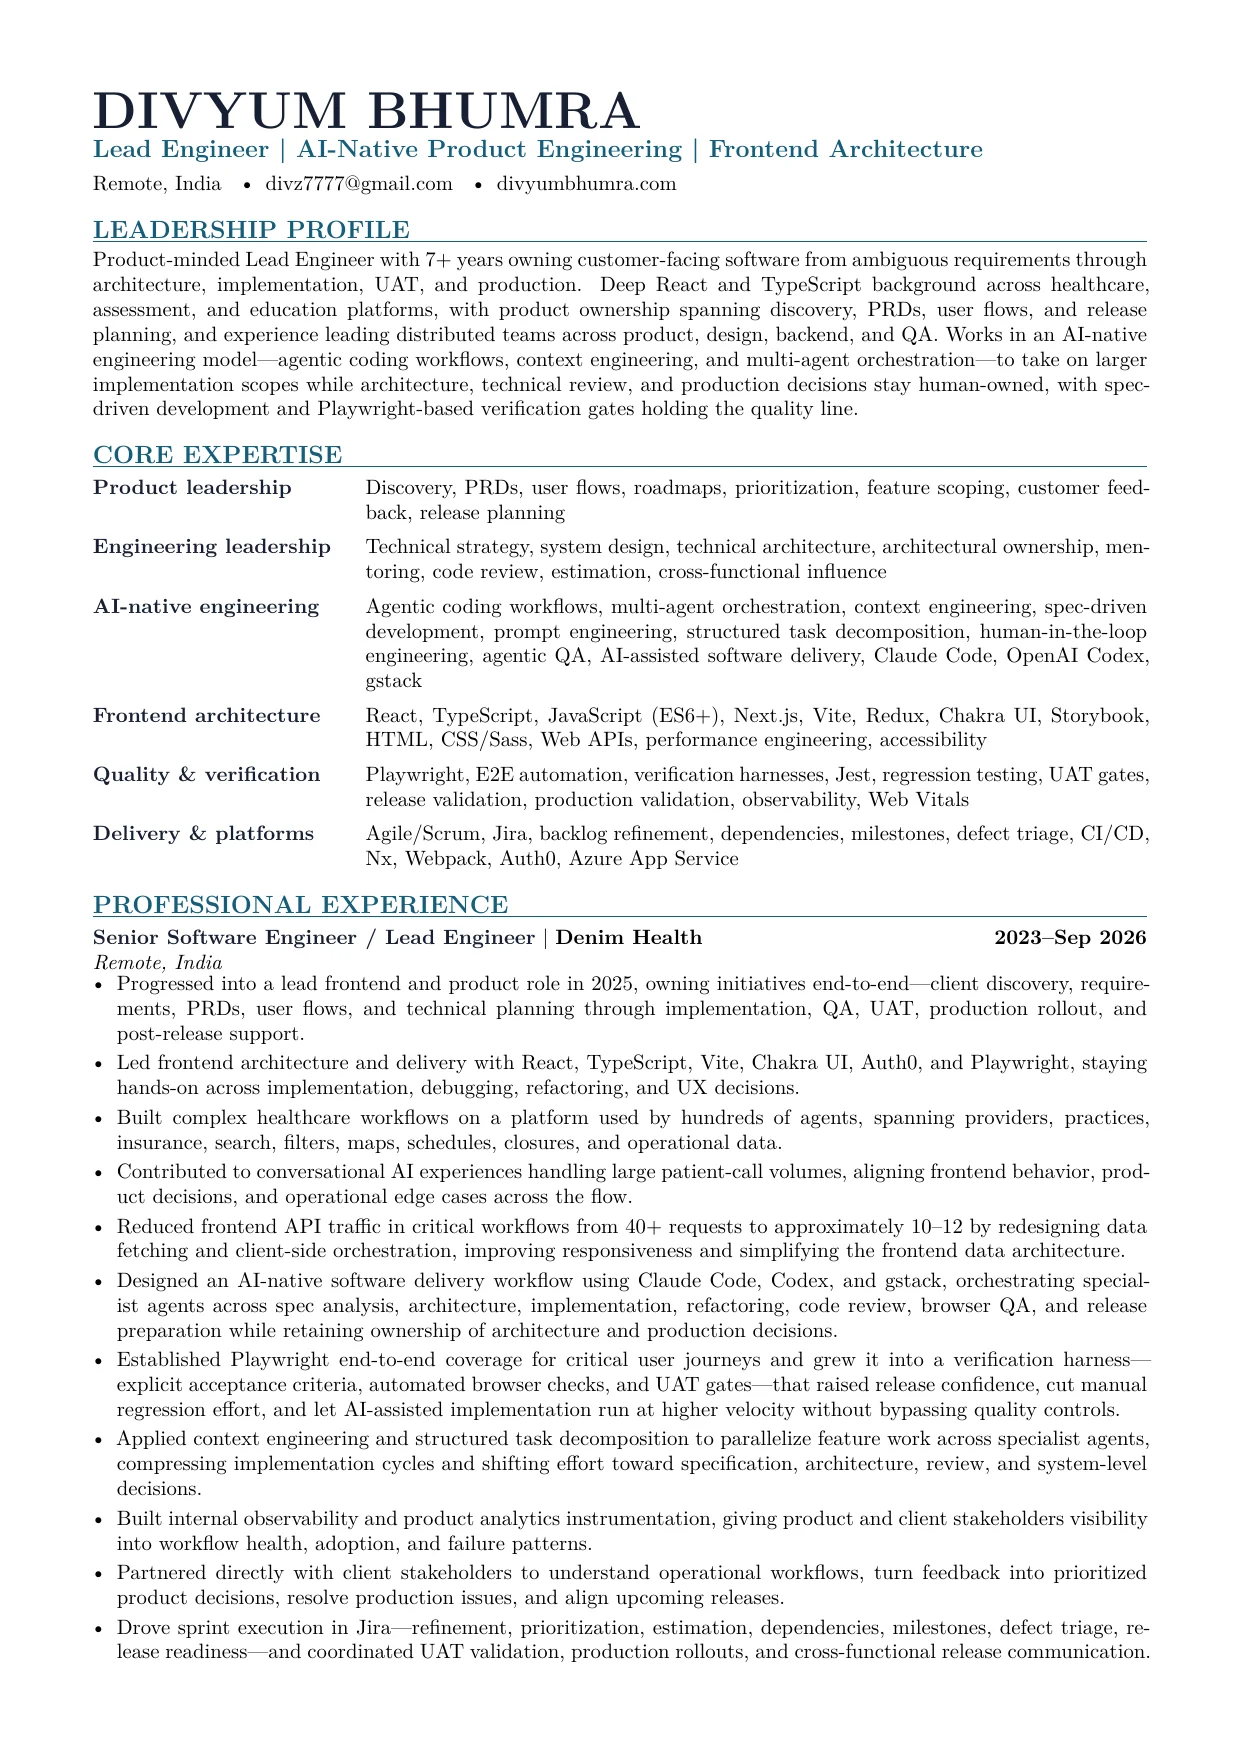
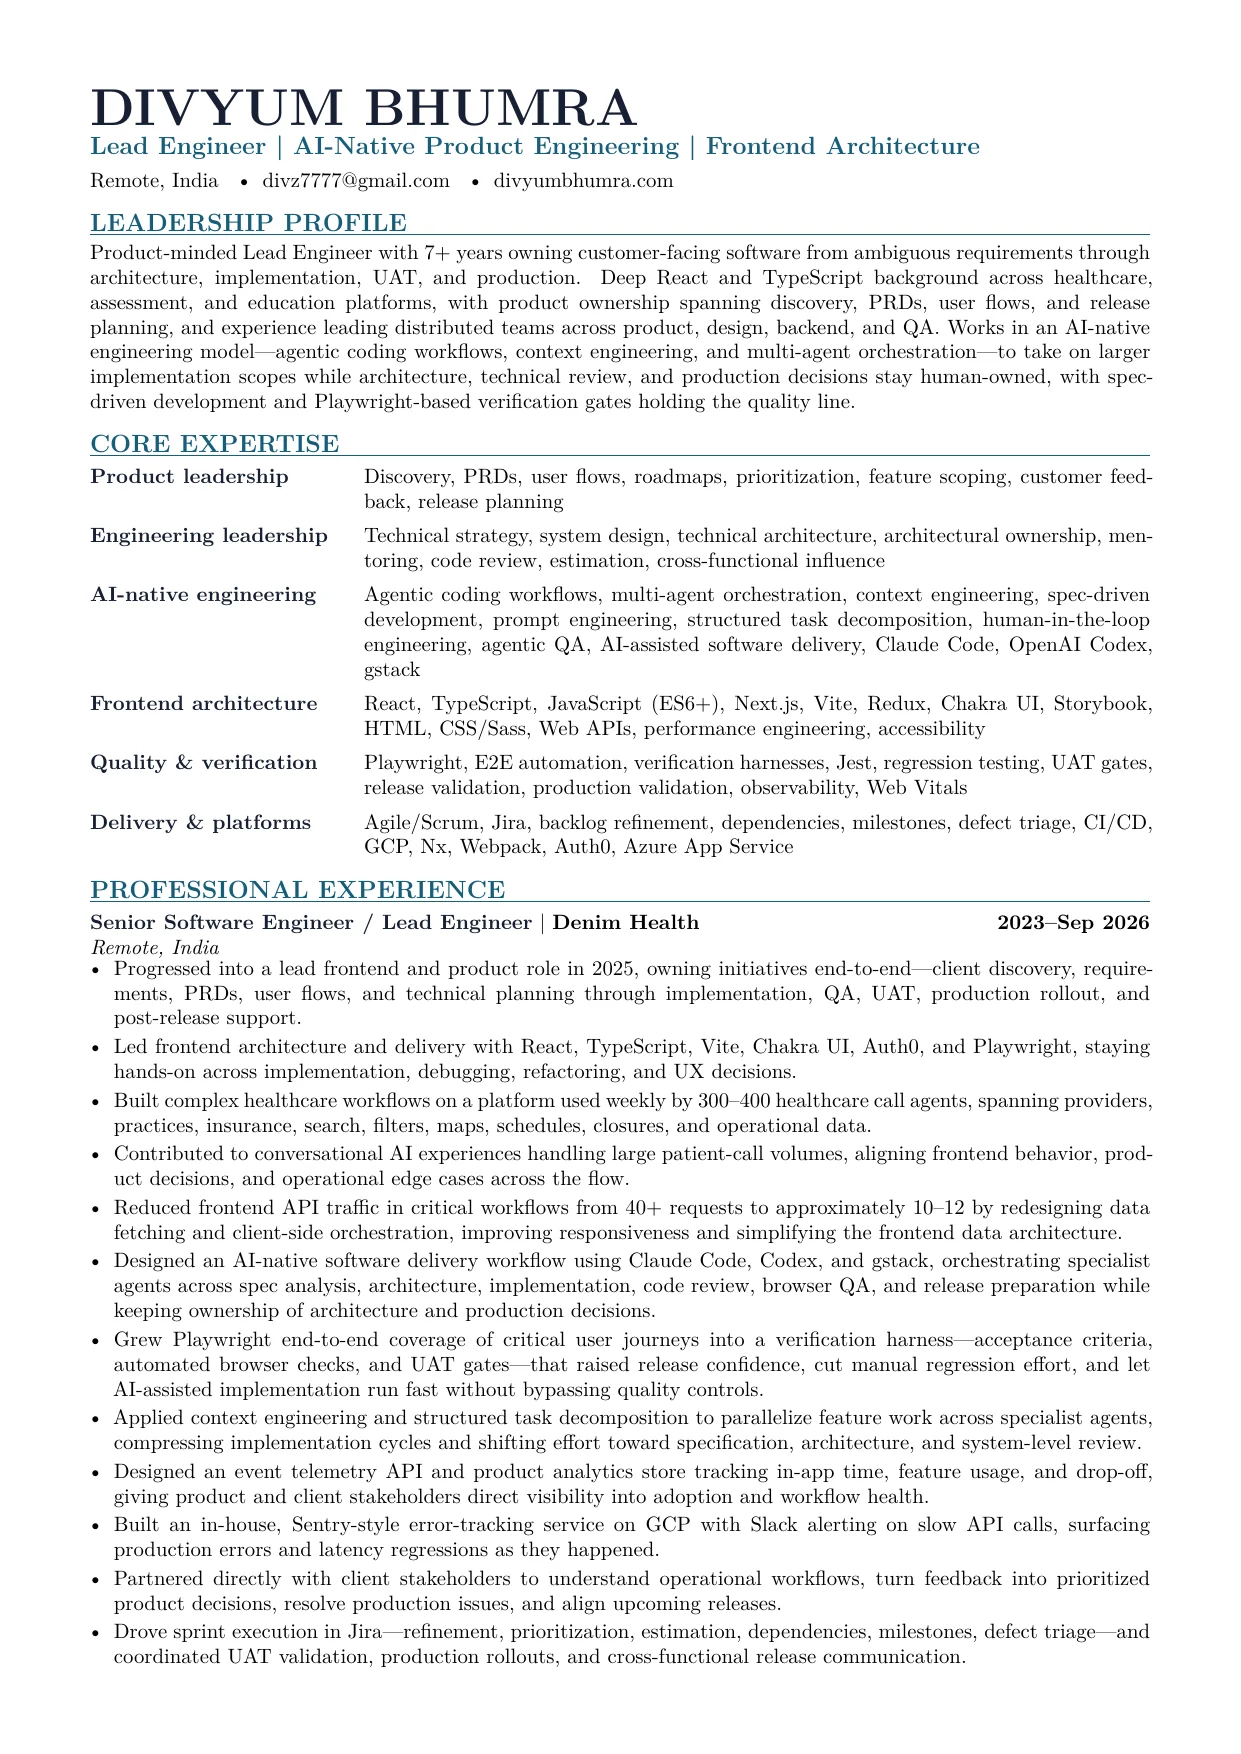
feat: sharpen resume evidence with confirmed observability scope
Publish the updated LaTeX resume and PDF: the platform is used weekly by
300-400 healthcare call agents (replacing "hundreds of agents", which
read ambiguously as AI agents), and the observability work is stated
concretely as an event telemetry API and product analytics store plus an
in-house Sentry-style error-tracking service on GCP with Slack alerting
on slow API calls.

Regenerate both WebP previews, mirror every copy change into the
accessible text version and refresh the twelve /resume visual baselines.

Changed region(s): [[0.0612, 0.0308, 0.9186, 0.9544]]

diff --git a/app/resume/page.tsx b/app/resume/page.tsx
@@ -168,8 +168,8 @@ export default function ResumePage() {
                 <dt>Delivery and platforms</dt>
                 <dd>
                   Agile/Scrum, Jira, backlog refinement, dependencies,
-                  milestones, defect triage, CI/CD, Nx, Webpack, Auth0 and Azure
-                  App Service
+                  milestones, defect triage, CI/CD, GCP, Nx, Webpack, Auth0 and
+                  Azure App Service
                 </dd>
               </div>
             </dl>
@@ -195,10 +195,10 @@ export default function ResumePage() {
                   implementation, debugging, refactoring and UX decisions.
                 </li>
                 <li>
-                  Built complex healthcare workflows on a platform used by
-                  hundreds of agents, spanning providers, practices, insurance,
-                  search, filters, maps, schedules, closures and operational
-                  data.
+                  Built complex healthcare workflows on a platform used weekly
+                  by 300–400 healthcare call agents, spanning providers,
+                  practices, insurance, search, filters, maps, schedules,
+                  closures and operational data.
                 </li>
                 <li>
                   Contributed to conversational AI experiences handling large
@@ -214,30 +214,33 @@ export default function ResumePage() {
                 <li>
                   Designed an AI-native software delivery workflow using Claude
                   Code, Codex and gstack, orchestrating specialist agents across
-                  spec analysis, architecture, implementation, refactoring, code
-                  review, browser QA and release preparation while retaining
-                  ownership of architecture and production decisions.
+                  spec analysis, architecture, implementation, code review,
+                  browser QA and release preparation while keeping ownership of
+                  architecture and production decisions.
                 </li>
                 <li>
-                  Established Playwright end-to-end coverage for critical user
-                  journeys and grew it into a verification harness — explicit
-                  acceptance criteria, automated browser checks and UAT gates —
-                  that raised release confidence, cut manual regression effort
-                  and let AI-assisted implementation run at higher velocity
-                  without bypassing quality controls.
+                  Grew Playwright end-to-end coverage of critical user journeys
+                  into a verification harness — acceptance criteria, automated
+                  browser checks and UAT gates — that raised release confidence,
+                  cut manual regression effort and let AI-assisted
+                  implementation run fast without bypassing quality controls.
                 </li>
                 <li>
                   Applied context engineering and structured task decomposition
                   to parallelize feature work across specialist agents,
                   compressing implementation cycles and shifting effort toward
-                  specification, architecture, review and system-level
-                  decisions.
+                  specification, architecture and system-level review.
                 </li>
                 <li>
-                  Built internal observability and product analytics
-                  instrumentation, giving product and client stakeholders
-                  visibility into workflow health, adoption and failure
-                  patterns.
+                  Designed an event telemetry API and product analytics store
+                  tracking in-app time, feature usage and drop-off, giving
+                  product and client stakeholders direct visibility into
+                  adoption and workflow health.
+                </li>
+                <li>
+                  Built an in-house, Sentry-style error-tracking service on GCP
+                  with Slack alerting on slow API calls, surfacing production
+                  errors and latency regressions as they happened.
                 </li>
                 <li>
                   Partnered directly with client stakeholders to understand
@@ -247,9 +250,9 @@ export default function ResumePage() {
                 </li>
                 <li>
                   Drove sprint execution in Jira — refinement, prioritization,
-                  estimation, dependencies, milestones, defect triage, release
-                  readiness — and coordinated UAT validation, production
-                  rollouts and cross-functional release communication.
+                  estimation, dependencies, milestones, defect triage — and
+                  coordinated UAT validation, production rollouts and
+                  cross-functional release communication.
                 </li>
               </ul>
             </section>

diff --git a/resume/divyum-bhumra-resume.tex b/resume/divyum-bhumra-resume.tex
@@ -1,6 +1,6 @@
 \documentclass[10pt,a4paper]{article}
 
-\usepackage[margin=0.62in]{geometry}
+\usepackage[margin=0.6in]{geometry}
 \usepackage[T1]{fontenc}
 \usepackage[utf8]{inputenc}
 \usepackage{lmodern}
@@ -20,9 +20,9 @@
 \pagestyle{empty}
 \setlength{\parindent}{0pt}
 \setlength{\parskip}{0pt}
-\setlist[itemize]{leftmargin=1.15em,itemsep=2.2pt,topsep=2.5pt,parsep=0pt,partopsep=0pt}
+\setlist[itemize]{leftmargin=1.15em,itemsep=1.8pt,topsep=2.5pt,parsep=0pt,partopsep=0pt}
 \titleformat{\section}{\large\bfseries\color{accent}}{}{0pt}{}[\vspace{-3pt}\color{accent}\titlerule]
-\titlespacing*{\section}{0pt}{9pt}{5pt}
+\titlespacing*{\section}{0pt}{7pt}{5pt}
 \urlstyle{same}
 
 \newcommand{\lbl}[1]{\textbf{\textcolor{ink}{#1}}}
@@ -54,7 +54,7 @@ Product-minded Lead Engineer with 7+ years owning customer-facing software from 
 \lbl{AI-native engineering} & Agentic coding workflows, multi-agent orchestration, context engineering, spec-driven development, prompt engineering, structured task decomposition, human-in-the-loop engineering, agentic QA, AI-assisted software delivery, Claude Code, OpenAI Codex, gstack \\ \rowgap
 \lbl{Frontend architecture} & React, TypeScript, JavaScript (ES6+), Next.js, Vite, Redux, Chakra UI, Storybook, HTML, CSS/Sass, Web APIs, performance engineering, accessibility \\ \rowgap
 \lbl{Quality \& verification} & Playwright, E2E automation, verification harnesses, Jest, regression testing, UAT gates, release validation, production validation, observability, Web Vitals \\ \rowgap
-\lbl{Delivery \& platforms} & Agile/Scrum, Jira, backlog refinement, dependencies, milestones, defect triage, CI/CD, Nx, Webpack, Auth0, Azure App Service
+\lbl{Delivery \& platforms} & Agile/Scrum, Jira, backlog refinement, dependencies, milestones, defect triage, CI/CD, GCP, Nx, Webpack, Auth0, Azure App Service
 \end{tabularx}
 
 \section{PROFESSIONAL EXPERIENCE}
@@ -62,15 +62,16 @@ Product-minded Lead Engineer with 7+ years owning customer-facing software from 
 \begin{itemize}
   \item Progressed into a lead frontend and product role in 2025, owning initiatives end-to-end---client discovery, requirements, PRDs, user flows, and technical planning through implementation, QA, UAT, production rollout, and post-release support.
   \item Led frontend architecture and delivery with React, TypeScript, Vite, Chakra UI, Auth0, and Playwright, staying hands-on across implementation, debugging, refactoring, and UX decisions.
-  \item Built complex healthcare workflows on a platform used by hundreds of agents, spanning providers, practices, insurance, search, filters, maps, schedules, closures, and operational data.
+  \item Built complex healthcare workflows on a platform used weekly by 300--400 healthcare call agents, spanning providers, practices, insurance, search, filters, maps, schedules, closures, and operational data.
   \item Contributed to conversational AI experiences handling large patient-call volumes, aligning frontend behavior, product decisions, and operational edge cases across the flow.
   \item Reduced frontend API traffic in critical workflows from 40+ requests to approximately 10--12 by redesigning data fetching and client-side orchestration, improving responsiveness and simplifying the frontend data architecture.
-  \item Designed an AI-native software delivery workflow using Claude Code, Codex, and gstack, orchestrating specialist agents across spec analysis, architecture, implementation, refactoring, code review, browser QA, and release preparation while retaining ownership of architecture and production decisions.
-  \item Established Playwright end-to-end coverage for critical user journeys and grew it into a verification harness---explicit acceptance criteria, automated browser checks, and UAT gates---that raised release confidence, cut manual regression effort, and let AI-assisted implementation run at higher velocity without bypassing quality controls.
-  \item Applied context engineering and structured task decomposition to parallelize feature work across specialist agents, compressing implementation cycles and shifting effort toward specification, architecture, review, and system-level decisions.
-  \item Built internal observability and product analytics instrumentation, giving product and client stakeholders visibility into workflow health, adoption, and failure patterns.
+  \item Designed an AI-native software delivery workflow using Claude Code, Codex, and gstack, orchestrating specialist agents across spec analysis, architecture, implementation, code review, browser QA, and release preparation while keeping ownership of architecture and production decisions.
+  \item Grew Playwright end-to-end coverage of critical user journeys into a verification harness---acceptance criteria, automated browser checks, and UAT gates---that raised release confidence, cut manual regression effort, and let AI-assisted implementation run fast without bypassing quality controls.
+  \item Applied context engineering and structured task decomposition to parallelize feature work across specialist agents, compressing implementation cycles and shifting effort toward specification, architecture, and system-level review.
+  \item Designed an event telemetry API and product analytics store tracking in-app time, feature usage, and drop-off, giving product and client stakeholders direct visibility into adoption and workflow health.
+  \item Built an in-house, Sentry-style error-tracking service on GCP with Slack alerting on slow API calls, surfacing production errors and latency regressions as they happened.
   \item Partnered directly with client stakeholders to understand operational workflows, turn feedback into prioritized product decisions, resolve production issues, and align upcoming releases.
-  \item Drove sprint execution in Jira---refinement, prioritization, estimation, dependencies, milestones, defect triage, release readiness---and coordinated UAT validation, production rollouts, and cross-functional release communication.
+  \item Drove sprint execution in Jira---refinement, prioritization, estimation, dependencies, milestones, defect triage---and coordinated UAT validation, production rollouts, and cross-functional release communication.
 \end{itemize}
 
 \role{Software Development Engineer 3}{CAW Studios}{Oct 2022--Jun 2023}{Hyderabad, India}
@@ -101,9 +102,6 @@ Product-minded Lead Engineer with 7+ years owning customer-facing software from 
 \end{itemize}
 
 \section{AI-NATIVE ENGINEERING SYSTEM}
-How AI-assisted delivery is structured in practice, from specification to production ownership.
-\vspace{3pt}
-
 \begin{tabularx}{\textwidth}{@{}>{\raggedright\arraybackslash}p{0.235\textwidth}X@{}}
 \lbl{Specification} & Requirements and PRDs translated into explicit specs, acceptance criteria, and decomposed workstreams before any agent runs \\ \rowgap
 \lbl{Context} & Curated repository context, conventions, constraints, and prior decisions supplied to agents, rather than one-shot prompting \\ \rowgap
